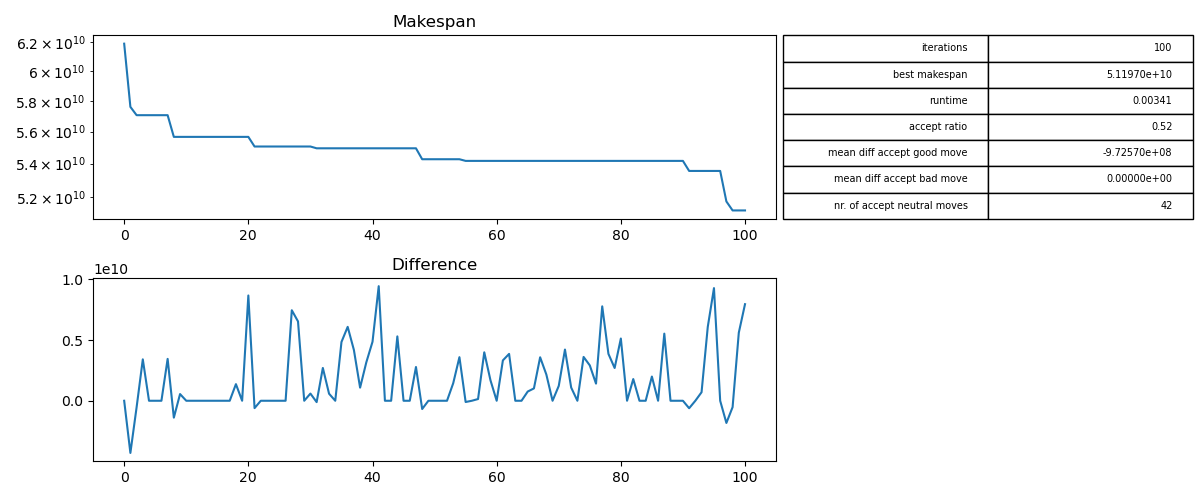
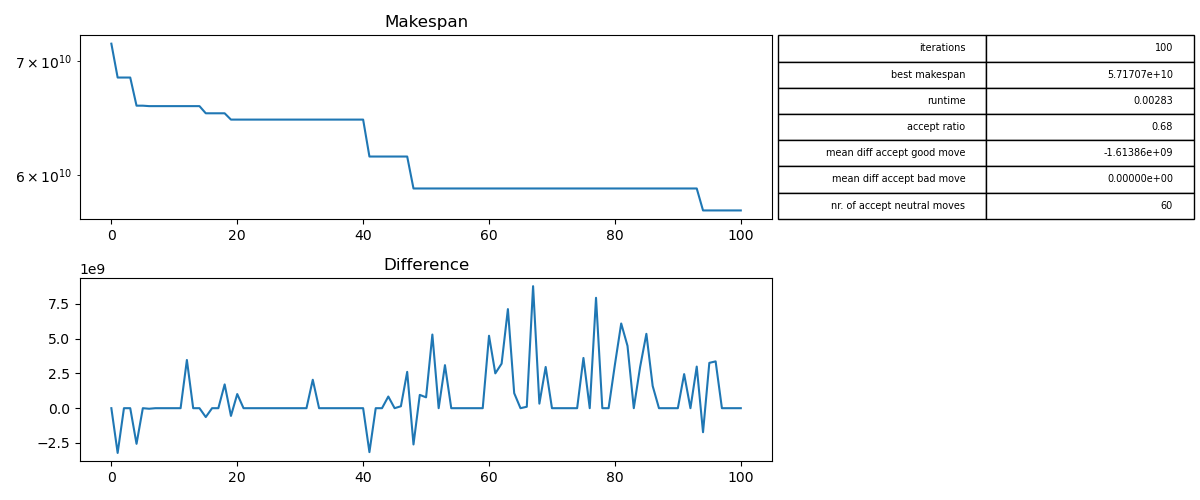
improvement code

diff --git a/simann/initial_state_comparison.py b/simann/initial_state_comparison.py
@@ -12,11 +12,11 @@ output_prefix = "./experiments/state_exp"
 
 # run experiments and save their result plots to file
 
-exp1 = instance.start(100, localSearch, 0, 8e10, 4e12)
+exp1 = instance.start(1000, localSearch, 0, 8e10, 4e12)
 exp1.plotResults("{}1.png".format(output_prefix))
 exp1.plotSchedule(instance, file_name="./experiments/state_exp1_schedule.png")
 
-exp2 = instance.start(100, localSearch, 1, 8e10, 4e12)
+exp2 = instance.start(1000, localSearch, 1, 8e10, 4e12)
 exp2.plotResults("{}2.png".format(output_prefix))
 
 

diff --git a/simann/data_comparison.py b/simann/data_comparison.py
@@ -12,11 +12,11 @@ output_prefix = "./experiments/data_exp"
 
 # run experiments and save their result plots to file
 
-exp1 = instance.start(100, localSearch, 0, 8e10, 4e12)
+exp1 = instance.start(1000, localSearch, 0, 8e10, 4e12)
 exp1.plotResults("{}1.png".format(output_prefix))
 exp1.plotSchedule(instance, file_name="./experiments/data_exp1_schedule.png")
 
-exp2 = instance.start(100, localSearch, 1, 8e10, 4e12)
+exp2 = instance.start(1000, localSearch, 1, 8e10, 4e12)
 exp2.plotResults("{}2.png".format(output_prefix))
 
 
